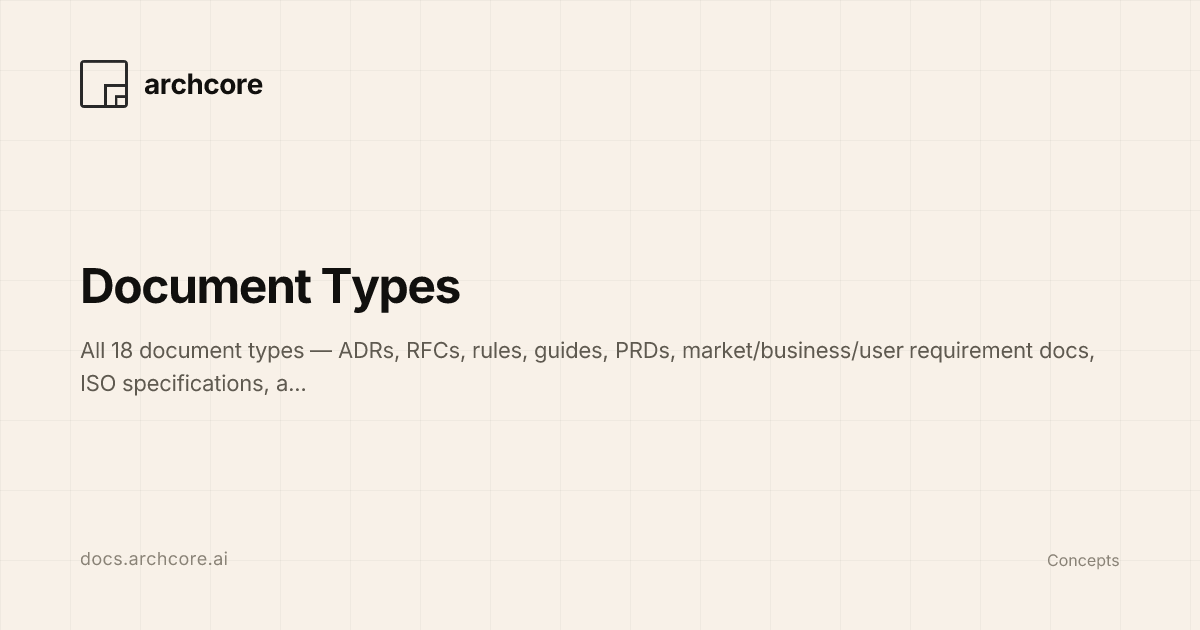
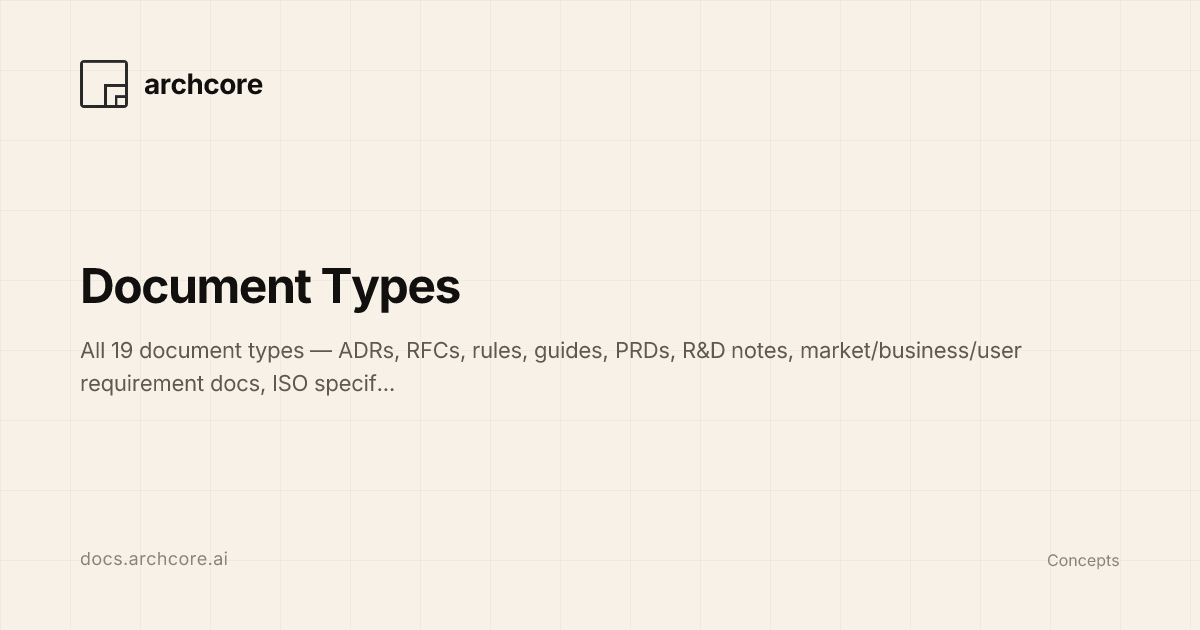
feat: rnd type

Changed region(s): [[0.555, 0.5429, 0.925, 0.573], [0.0617, 0.573, 0.3083, 0.6333], [0.0925, 0.5429, 0.1233, 0.573]]

diff --git a/src/content/docs/concepts/how-it-works.md b/src/content/docs/concepts/how-it-works.md
@@ -31,7 +31,7 @@ No database, no special tooling. `ls .archcore/` tells you what's there. PRs sho
 Archcore has a small surface area by design:
 
 - **3 statuses** — `draft`, `accepted`, `rejected`
-- **18 document types** — each with a clear purpose
+- **19 document types** — each with a clear purpose
 - **4 relation types** — `implements`, `extends`, `depends_on`, `related`
 - **1 naming convention** — `slug.type.md`, always
 
@@ -47,11 +47,11 @@ If you create an `adr`, it is in the Knowledge layer. If you create a `plan`, it
 
 ### Vision — what to build and why
 
-Vision has 10 document types across three **requirement tracks**. Use whichever fits your situation — all three can coexist.
+Vision has 11 document types across three **requirement tracks**. Use whichever fits your situation — all three can coexist.
 
 | Track | Documents | Best For |
 |-------|-----------|----------|
-| Product (simple) | `prd`, `idea`, `plan` | Individual features, small teams, rapid prototyping |
+| Product (simple) | `prd`, `idea`, `rnd`, `plan` | Individual features, small teams, rapid prototyping |
 | Sources (discovery) | `mrd` -> `brd` -> `urd` | Product teams doing discovery, stakeholder alignment |
 | ISO (decomposition) | `brs` -> `strs` -> `syrs` -> `srs` | Regulated systems, multi-team projects |
 
@@ -82,18 +82,18 @@ Patterns crystallized from repeated work.
 The natural lifecycle flows from **Vision -> Knowledge -> Experience**:
 
 ```
-Vision                     Knowledge              Experience
-┌───────────────────┐     ┌──────────┐           ┌──────────┐
-│ Product track     │     │   rfc    │           │          │
-│   idea prd plan   │──>  │   adr    │───>       │task-type │
-│                   │     │   rule   │───>       │   cpat   │
-│ Sources track     │     │  guide   │           │          │
-│   mrd brd urd     │──>  │   spec   │           │          │
-│                   │     │   doc    │           │          │
-│ ISO track         │     │          │           │          │
-│   brs strs        │──>  │          │           │          │
-│   syrs srs        │     │          │           │          │
-└───────────────────┘     └──────────┘           └──────────┘
+Vision                       Knowledge              Experience
+┌─────────────────────┐     ┌──────────┐           ┌──────────┐
+│ Product track       │     │   rfc    │           │          │
+│   idea rnd prd plan │──>  │   adr    │───>       │task-type │
+│                     │     │   rule   │───>       │   cpat   │
+│ Sources track       │     │  guide   │           │          │
+│   mrd brd urd       │──>  │   spec   │           │          │
+│                     │     │   doc    │           │          │
+│ ISO track           │     │          │           │          │
+│   brs strs          │──>  │          │           │          │
+│   syrs srs          │     │          │           │          │
+└─────────────────────┘     └──────────┘           └──────────┘
 ```
 
 This is not a strict sequence. Documents can be created in any layer at any time. A team might start with a `rule` that was always understood but never written down, or create a `task-type` before the underlying `adr` exists.
@@ -142,6 +142,6 @@ You can say "create an ADR for the decision we just discussed" or "link this rul
 ## Next Steps
 
 - [Plugin quick start](/start/plugin-quick-start/) or [CLI quick start](/cli/quick-start/) — set up Archcore in 2 minutes
-- [Document Types](/concepts/document-types/) — full reference for all 18 types
+- [Document Types](/concepts/document-types/) — full reference for all 19 types
 - [Relations](/concepts/relations/) — link documents with directed relations
 - [MCP Server](/cli/mcp-server/) — how agents connect to your project context

diff --git a/src/content/docs/concepts/document-types.md b/src/content/docs/concepts/document-types.md
@@ -1,9 +1,9 @@
 ---
 title: Document Types
-description: All 18 document types — ADRs, RFCs, rules, guides, PRDs, market/business/user requirement docs, ISO specifications, and more. When to use each, required sections, and templates.
+description: All 19 document types — ADRs, RFCs, rules, guides, PRDs, R&D notes, market/business/user requirement docs, ISO specifications, and more. When to use each, required sections, and templates.
 ---
 
-Archcore has 18 document types organized into 3 layers. Each type has a template with required sections that the CLI generates automatically.
+Archcore has 19 document types organized into 3 layers. Each type has a template with required sections that the CLI generates automatically.
 
 ## Choosing the Right Type
 
@@ -16,6 +16,7 @@ Need a normative contract for a boundary?  → spec
 Need reference/lookup material?            → doc
 Need to define product requirements?       → prd
 Need to capture an early idea?             → idea
+Need to investigate before deciding?       → rnd
 Need to plan implementation tasks?         → plan
 Need market analysis (TAM, competitors)?   → mrd
 Need business justification (ROI, budget)? → brd
@@ -61,6 +62,28 @@ A product or technical concept that needs capturing before it's fully formed.
 | **File extension** | `.idea.md` |
 | **When to use** | A concept needs capturing for future evaluation |
 | **Required sections** | Idea, Value, Possible Implementation, Risks & Constraints |
+
+#### RnD — Research & Investigation
+
+A bounded investigation that answers an open question before a decision is made or work begins. Every `rnd` ends with a **Recommendation** — `proceed`, `refine`, `defer`, or `stop` — plus the single next action that follows from it.
+
+| | |
+|---|---|
+| **File extension** | `.rnd.md` |
+| **When to use** | A bounded investigation is needed to answer a question before deciding or building |
+| **Required sections** | Research Goal, Questions/Hypotheses, Approach, Findings, Recommendation, Next Action |
+
+An `rnd` is the **Research Gate** in front of the committing tracks (`rnd` -> `idea`, `rnd` -> `adr` -> `spec` -> `plan`). Its status maps to the verdict:
+
+- `draft` — still investigating
+- `accepted` — recommendation adopted, proceed or refine
+- `rejected` — defer or stop
+
+A rejected `rnd` is a first-class outcome, not a failure. "We investigated and decided not to" stays visible as a record of the dead end — keep it, don't delete it. By convention, `prd`/`plan`/`adr` `depends_on` an `rnd`, and an `rfc` may `extend` one; `rnd` never uses [`implements`](/concepts/relations/).
+
+:::note[RnD vs Idea vs ADR vs RFC]
+An **rnd** investigates an open question and must conclude with a recommendation — use it for "should we / which way." An **idea** proposes a concept worth exploring — "we could." An **adr** records a decision already made; gather evidence in an `rnd`, then record the resulting decision as an `adr`. An **rfc** puts a concrete proposal up for review. If there's nothing to propose yet, use `rnd`.
+:::
 
 #### Plan — Implementation Plan
 

diff --git a/src/content/docs/reference/document-format.md b/src/content/docs/reference/document-format.md
@@ -54,19 +54,7 @@ Tags must match `^[a-z][a-z0-9_:|-]*$` — lowercase, with hyphens, underscores,
 
 When tags are absent, the field is omitted from output. Documents without tags parse and work normally.
 
-#### meta
-
-The `meta` field can hold arbitrary YAML metadata:
-
-```yaml
----
-title: API Rate Limiting Standards
-status: accepted
-meta:
-  author: team-backend
-  reviewed: 2025-01-15
----
-```
+`tags` is the only optional frontmatter field. The parser recognizes exactly three keys — `title`, `status`, and `tags`. Any other key (for example, an arbitrary `meta:` block) is silently ignored: it stays in the file but Archcore never reads, validates, or syncs it.
 
 ## Content Structure
 

diff --git a/src/content/docs/concepts/documents.md b/src/content/docs/concepts/documents.md
@@ -12,7 +12,7 @@ Every document follows the pattern:
 ```
 
 - **Slug** -- lowercase alphanumeric with hyphens. Must match `^[a-z0-9]+(-[a-z0-9]+)*$`
-- **Type** -- one of the 18 valid types (see [Document Types](/concepts/document-types/))
+- **Type** -- one of the 19 valid types (see [Document Types](/concepts/document-types/))
 - **Extension** -- always `.md`
 
 **Valid:** `jwt-strategy`, `use-postgres`, `api-v2-migration`
@@ -114,6 +114,6 @@ Both files are managed by the [CLI](/cli/commands/) and skipped during document 
 
 ## Next Steps
 
-- [Document Types](/concepts/document-types/) -- all 18 types and when to use each
+- [Document Types](/concepts/document-types/) -- all 19 types and when to use each
 - [Plugin quick start](/start/plugin-quick-start/) or [CLI quick start](/cli/quick-start/) -- create your first document
 - [MCP Server](/cli/mcp-server/) -- let AI agents read and write project context

diff --git a/src/content/docs/reference/mcp-tools.md b/src/content/docs/reference/mcp-tools.md
@@ -61,7 +61,8 @@ Search documents by path reference, content substring, or metadata. Unlike `list
 | `status`      | string   | conditional | Filter by status: `draft`, `accepted`, or `rejected`.                                                                        |
 | `mtime_after` | string   | No          | Only include documents modified after this time. Accepts RFC3339 timestamps or relative durations (`24h`, `30d`, `90d`).     |
 | `sort`        | string   | No          | Result ordering: `relevance` (default) or `mtime`.                                                                           |
-| `limit`       | number   | No          | Maximum number of results. Default 50, max 200. Values above 200 are clamped.                                                |
+| `mode`        | string   | No          | Output detail: `snippets` (default) returns only matching excerpts; `full` additionally returns each result's complete document `body` (frontmatter stripped), so you can read the matched docs without a follow-up `get_document`. |
+| `limit`       | number   | No          | Maximum number of results. Defaults and caps are mode-dependent: `snippets` → default 50, max 200; `full` → default 3, max 20. Values above the cap are clamped.                                                |
 
 At least one of `path_ref`, `content`, `types`, or `status` must be provided. Filters combine with AND semantics.
 
@@ -74,6 +75,7 @@ At least one of `path_ref`, `content`, `types`, or `status` must be provided. Fi
 
 - `path`, `title`, `type`, `status`, `mtime`, `tags` — document metadata.
 - `matches` — per-match evidence array. Each entry has `kind` (`path_ref_explicit`, `path_ref_mention`, or `content`), `ref` (the matched token), `specificity` (integer), and `excerpt` (~120-char window). Empty array for pure-metadata queries.
+- `body` — the complete document body (frontmatter stripped). Included only when `mode: "full"`; omitted in the default `snippets` mode.
 - `incoming_relations`, `outgoing_relations` — manifest edges involving this document.
 
 **Example — find rules and ADRs that reference a code path:**